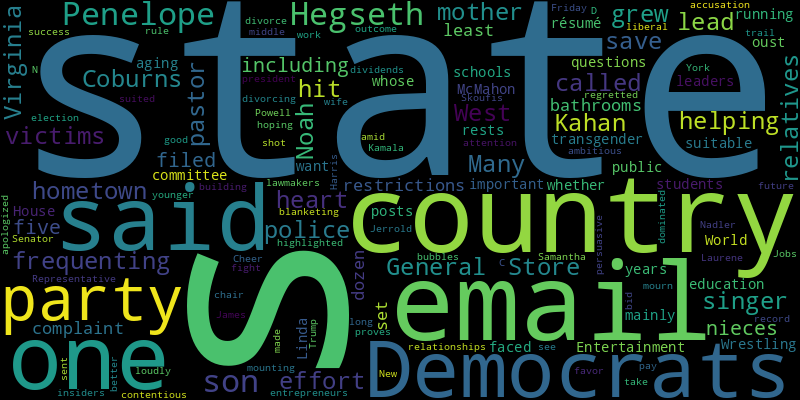
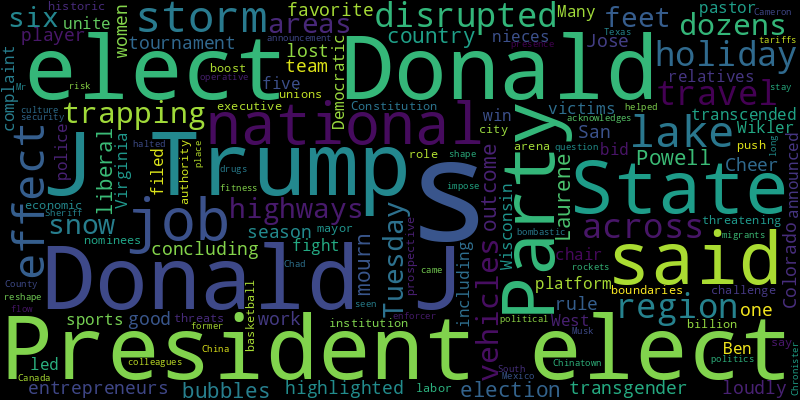
chore(bot): 🟩 auto commit

diff --git a/README.md b/README.md
@@ -2,32 +2,33 @@
 Auto RSS New York Times and Generate Word Cloud
 
 ## New York Times Global News
-* The rapid advance on Aleppo came just four days into a surprise rebel offensive that is the most intense escalation in years in a civil war that was mostly dormant.
+* Criminals turn college campuses into recruitment hubs, recruiting chemistry students in Mexico with big paydays.
+* The mass slaying of West African soldiers by colonial forces at the end of World War II in Senegal remains shrouded in secrecy. But Senegal’s new government won’t abide the mystery.
+* When President Biden visits the country this week, he is expected to highlight a largely overlooked bond between Angola and the United States that was born out of the trans-Atlantic slave trade.
+* The rapid advance on Aleppo came just four days into a surprise opposition offensive that is the most intense escalation in years in the civil war.
+* Hamas’s weakened position could leave the territory without any governing institutions.
+* The end of Michel Barnier’s government looks inevitable, even imminent, and would add to the country’s political malaise. The only question seems to be: How long he can last?
 * Prime Minister Justin Trudeau of Canada is the first foreign G7 leader to visit President-elect Donald J. Trump since the election. He is under pressure to persuade Mr. Trump to back down from his tariff threat.
 * Lai Ching-te is looking to shore up support from three island nations that are among a dwindling number to keep diplomatic ties with Taiwan.
 * The Lebanese Army is tasked with ensuring that Hezbollah abides by the cease-fire. It has failed at that task before.
 * The health secretary pick and his organization have worked around the world to undermine longstanding policies on measles, AIDS and more.
-* A broader peace in the Middle East will be difficult to achieve, and Iran’s threat to Israel looms over any diplomatic effort.
-* A Times investigation found that zoos knew conservation money went toward apartment buildings and roads. But they wanted to keep displaying pandas, so nobody looked too closely.
-* Amphibious operations across the Dnipro River at Kherson illustrated the suffering and endurance of Ukrainian forces. A team of Times journalists observed the perilous movements.
-* Thousands of people took to the streets after the government said it had suspended talks on joining the European Union.
-* In a northeast neighborhood of the capital city, deprivation and affluence exist side-by-side, and many voters feel frustrated by the status quo.
 
 ![Global](./global.png)
 ## New York Times United States News
-* The hit singer Noah Kahan grew up frequenting Coburns’ General Store and has called it “the heart” of his hometown. His mother is helping lead an effort to save it.
-* Many of the victims were the West Virginia pastor’s relatives, the police said, including five nieces who filed a complaint against him in 2004.
-* The state is one of at least a dozen states to set restrictions on bathrooms for transgender students at public schools.
-* Linda McMahon, whose résumé mainly rests on running World Wrestling Entertainment, has faced questions for years over whether she is suitable for important education posts.
-* Some House Democrats want to oust aging committee leaders like Representative Jerrold Nadler in favor of younger lawmakers who they see as better suited to take on the president.
-* State Senator James Skoufis of New York is mounting a long-shot bid for D.N.C. chair, hoping his record of success in Trump country proves persuasive to party insiders.
-* As Kamala Harris dominated attention on the 2024 trail, ambitious Democrats were also blanketing the country, building relationships that could pay dividends in the fight for the party’s future.
+* The lake-effect storm disrupted holiday travel across the region, trapping dozens of vehicles on highways. Some areas could get up to six feet of snow by Tuesday.
 * As the country’s liberal bubbles mourn the election’s outcome, Laurene Powell Jobs highlighted entrepreneurs’ good work with one rule: “Cheer loudly!”
-* Penelope Hegseth sent the email to her son in 2018 as he was in the middle of divorcing his wife, Samantha.
-* Penelope Hegseth made the accusation in an email to her son in 2018, amid his contentious divorce. She said on Friday that she regretted the email and had apologized to him.
+* The San Jose State women’s team, which has a transgender player, lost to the tournament favorite Colorado State, concluding a season that transcended sports.
+* Many of the victims were the West Virginia pastor’s relatives, the police said, including five nieces who filed a complaint against him in 2004.
+* Ben Wikler, who has led the Wisconsin Democratic Party since 2019, announced a bid to be national party chair with a platform to “unite, fight, win.”
+* President-elect Donald J. Trump is threatening to challenge the institution’s historic role, and the Constitution, with his prospective nominees and threats to push the boundaries of executive authority.
+* The mayor and labor unions say the $1.3 billion basketball arena would be an economic boost. But the city acknowledges that Chinatown could be at risk.
+* Mr. Musk’s rockets and presence have helped shape, and reshape, the culture and politics of Cameron County in South Texas.
+* President-elect Donald J. Trump has long seen his bombastic national security operative as a political “enforcer.” But former colleagues question his fitness for the job.
+* The announcement of Sheriff Chad Chronister came after President-elect Donald J. Trump said that he would impose tariffs that would stay in place until Canada, Mexico and China halted the flow of drugs and migrants.
 
 ![US](./usnews.png)
 ## New York Times Asia News
+* The sentencing of Dong Yuyu, a former Harvard Nieman fellow, signals that officials consider some exchanges between Chinese citizens and foreigners to be espionage.
 * Lai Ching-te is looking to shore up support from three island nations that are among a dwindling number to keep diplomatic ties with Taiwan.
 * We tracked $86 million in U.S. money that was supposed to go toward panda conservation in China.
 * A Times investigation found that zoos knew conservation money went toward apartment buildings and roads. But they wanted to keep displaying pandas, so nobody looked too closely.
@@ -37,6 +38,5 @@ Auto RSS New York Times and Generate Word Cloud
 * The law sets a minimum age for users of platforms like TikTok, Instagram and X. How the restriction will be enforced online remains an open question.
 * An online campaign has prompted major pad manufacturers to apologize. Regulators said they would consider women’s criticisms when writing new standards.
 * The case of Adm. Miao Hua suggests the persistence of graft at high levels of the military, despite the efforts by Xi Jinping to stamp out corruption.
-* The economy has failed to create enough good jobs, so a government post appeals to far more people than there are openings, fueling desperation.
 
 ![Asian](./asian.png)

diff --git a/archive/2024-11-30.md b/archive/2024-11-30.md
@@ -1,0 +1,42 @@
+# NewsArchive
+Auto RSS New York Times and Generate Word Cloud
+
+## New York Times Global News
+* The rapid advance on Aleppo came just four days into a surprise rebel offensive that is the most intense escalation in years in a civil war that was mostly dormant.
+* Prime Minister Justin Trudeau of Canada is the first foreign G7 leader to visit President-elect Donald J. Trump since the election. He is under pressure to persuade Mr. Trump to back down from his tariff threat.
+* Lai Ching-te is looking to shore up support from three island nations that are among a dwindling number to keep diplomatic ties with Taiwan.
+* The Lebanese Army is tasked with ensuring that Hezbollah abides by the cease-fire. It has failed at that task before.
+* The health secretary pick and his organization have worked around the world to undermine longstanding policies on measles, AIDS and more.
+* A broader peace in the Middle East will be difficult to achieve, and Iran’s threat to Israel looms over any diplomatic effort.
+* A Times investigation found that zoos knew conservation money went toward apartment buildings and roads. But they wanted to keep displaying pandas, so nobody looked too closely.
+* Amphibious operations across the Dnipro River at Kherson illustrated the suffering and endurance of Ukrainian forces. A team of Times journalists observed the perilous movements.
+* Thousands of people took to the streets after the government said it had suspended talks on joining the European Union.
+* In a northeast neighborhood of the capital city, deprivation and affluence exist side-by-side, and many voters feel frustrated by the status quo.
+
+![Global](./global.png)
+## New York Times United States News
+* The hit singer Noah Kahan grew up frequenting Coburns’ General Store and has called it “the heart” of his hometown. His mother is helping lead an effort to save it.
+* Many of the victims were the West Virginia pastor’s relatives, the police said, including five nieces who filed a complaint against him in 2004.
+* The state is one of at least a dozen states to set restrictions on bathrooms for transgender students at public schools.
+* Linda McMahon, whose résumé mainly rests on running World Wrestling Entertainment, has faced questions for years over whether she is suitable for important education posts.
+* Some House Democrats want to oust aging committee leaders like Representative Jerrold Nadler in favor of younger lawmakers who they see as better suited to take on the president.
+* State Senator James Skoufis of New York is mounting a long-shot bid for D.N.C. chair, hoping his record of success in Trump country proves persuasive to party insiders.
+* As Kamala Harris dominated attention on the 2024 trail, ambitious Democrats were also blanketing the country, building relationships that could pay dividends in the fight for the party’s future.
+* As the country’s liberal bubbles mourn the election’s outcome, Laurene Powell Jobs highlighted entrepreneurs’ good work with one rule: “Cheer loudly!”
+* Penelope Hegseth sent the email to her son in 2018 as he was in the middle of divorcing his wife, Samantha.
+* Penelope Hegseth made the accusation in an email to her son in 2018, amid his contentious divorce. She said on Friday that she regretted the email and had apologized to him.
+
+![US](./usnews.png)
+## New York Times Asia News
+* Lai Ching-te is looking to shore up support from three island nations that are among a dwindling number to keep diplomatic ties with Taiwan.
+* We tracked $86 million in U.S. money that was supposed to go toward panda conservation in China.
+* A Times investigation found that zoos knew conservation money went toward apartment buildings and roads. But they wanted to keep displaying pandas, so nobody looked too closely.
+* Dong Yuyu, who has written articles critical of the Communist Party, was arrested in 2022 while having lunch with a Japanese diplomat.
+* Plus, the gangs stealing hiring exams in India.
+* India and Bangladesh have traded angry accusations about Bangladesh’s Hindu minority.
+* The law sets a minimum age for users of platforms like TikTok, Instagram and X. How the restriction will be enforced online remains an open question.
+* An online campaign has prompted major pad manufacturers to apologize. Regulators said they would consider women’s criticisms when writing new standards.
+* The case of Adm. Miao Hua suggests the persistence of graft at high levels of the military, despite the efforts by Xi Jinping to stamp out corruption.
+* The economy has failed to create enough good jobs, so a government post appeals to far more people than there are openings, fueling desperation.
+
+![Asian](./asian.png)
